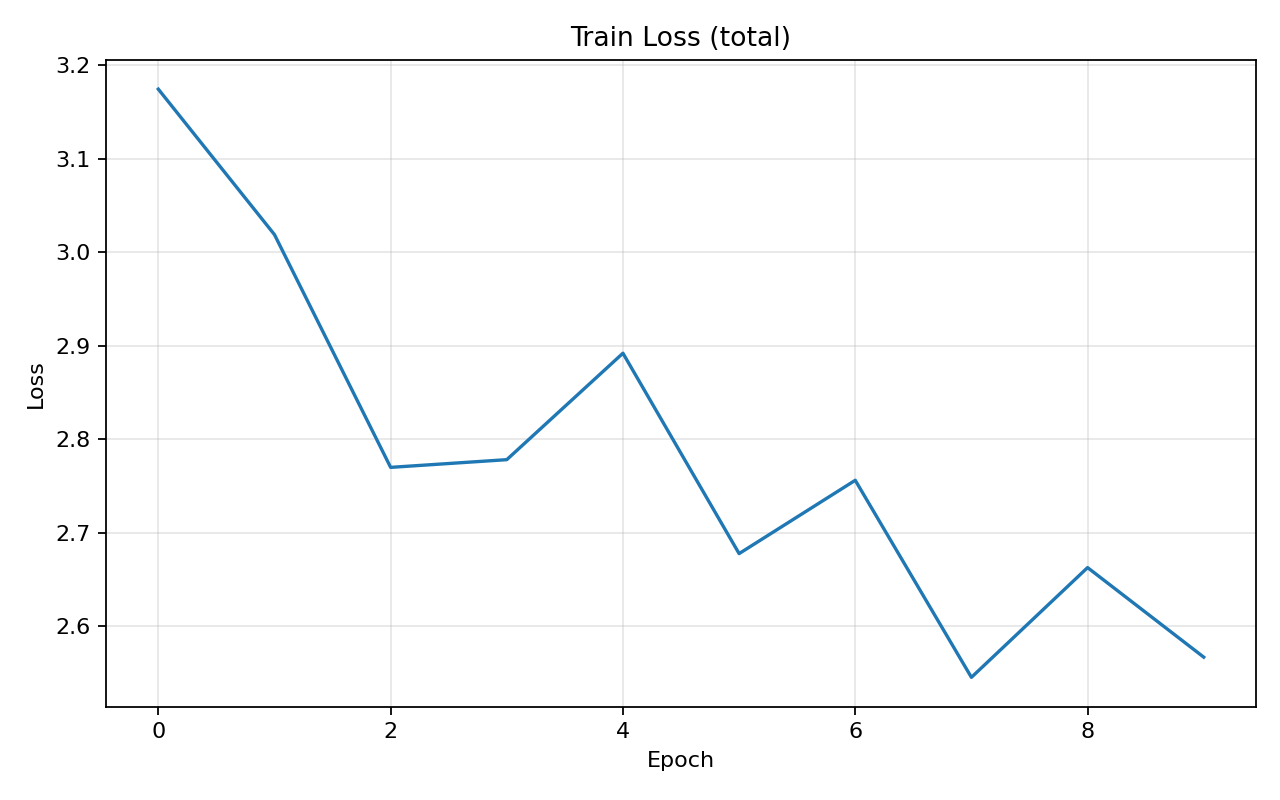
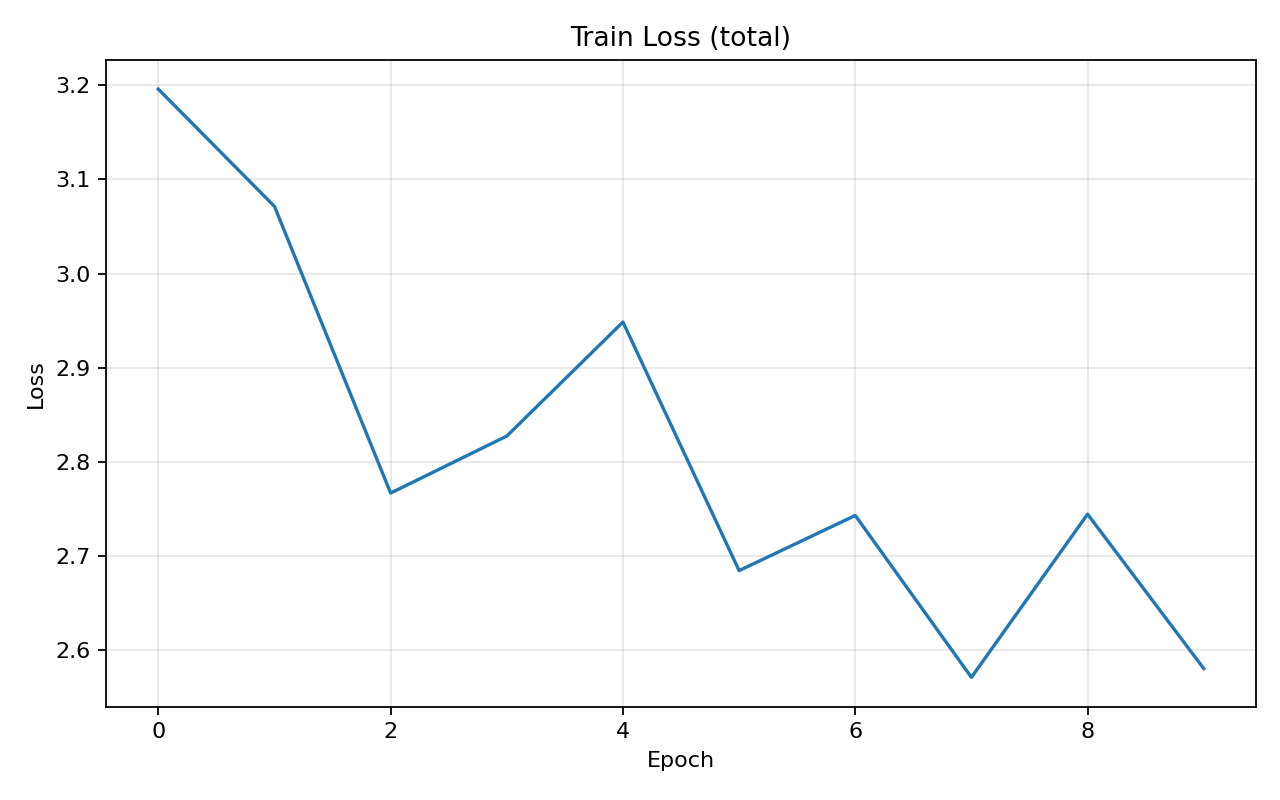
2 attempt

diff --git a/ae_with_fr.py b/ae_with_fr.py
@@ -1,15 +1,14 @@
 #!/usr/bin/env python
 # -*- coding: utf-8 -*-
 
-import os, warnings
+import os
+import warnings
 
 from datasets import HAM10000Dataset, SemiSupervisedDataset
 
 warnings.filterwarnings("ignore")
 
-import numpy as np
 import pandas as pd
-from PIL import Image
 import matplotlib.pyplot as plt
 from fd_functions import *
 
@@ -17,7 +16,7 @@ from fd_functions import *
 import torch
 import torch.nn as nn
 import torch.nn.functional as F
-from torch.utils.data import Dataset, DataLoader, random_split
+from torch.utils.data import DataLoader, random_split
 
 try:
     from lightning import LightningModule, LightningDataModule, Trainer, seed_everything
@@ -39,21 +38,21 @@ DATA_PATH = "F:/datasets/SkinCancer"
 IM_DIR = os.path.join(DATA_PATH, "images")
 CSV_PATH = os.path.join(DATA_PATH, "GroundTruth.csv")
 
-BATCH_SIZE = 256
+BATCH_SIZE = 128
 IMG_SIZE = (96, 96)
 NUM_CLASSES = 2
 NUM_EPOCHS = 10
 LR = 1e-3
-RC_RATE = 0.3              # вага проміжних MSE (out<->dout) усередині reconstruction_loss
 LABELED_FRACTION = 0.05
-MODEL_PATH = "ae_fr_005.pt"
+MODEL_PATH = "fractal_reg_ae_005_fd5.pt"
 
 # Лише одна вага для FD (λ). Реконструкцію не масштабуємо додатково — як у базі.
-LAMBDA_FD = 0.5
+LAMBDA_FD = 2
+RC_RATE = 0.3  # вага проміжних MSE (out<->dout) усередині reconstruction_loss
 
 # нормалізація з базової моделі
 norm_mean = [0.76303685, 0.54564613, 0.570045]
-norm_std  = [0.14092818, 0.15261282, 0.16997021]
+norm_std = [0.14092818, 0.15261282, 0.16997021]
 
 os.makedirs("models", exist_ok=True)
 os.makedirs("plots", exist_ok=True)
@@ -80,6 +79,7 @@ eval_transform = transforms.Compose([
     transforms.ToTensor(),
     transforms.Normalize(norm_mean, norm_std),
 ])
+
 
 # =======================
 # DataModule
@@ -131,8 +131,8 @@ class HAMDataModule(LightningDataModule):
         train_df = pd.concat(samples, axis=0).reset_index(drop=True)
 
         self.train_full = HAM10000Dataset(train_df, transform=train_transform, root=IM_DIR)
-        self.val_set    = HAM10000Dataset(val_df,   transform=eval_transform, root=IM_DIR)
-        self.test_set   = HAM10000Dataset(test_df,  transform=eval_transform, root=IM_DIR)
+        self.val_set = HAM10000Dataset(val_df, transform=eval_transform, root=IM_DIR)
+        self.test_set = HAM10000Dataset(test_df, transform=eval_transform, root=IM_DIR)
 
         n_labeled = int(LABELED_FRACTION * len(self.train_full))
         n_unlabeled = len(self.train_full) - n_labeled
@@ -144,15 +144,16 @@ class HAMDataModule(LightningDataModule):
 
     def train_dataloader(self):
         return DataLoader(self.semi_train, batch_size=self.batch_size, shuffle=True,
-                          pin_memory=True, num_workers=8, persistent_workers=True)
+                          pin_memory=True, num_workers=4, persistent_workers=True)
 
     def val_dataloader(self):
         return DataLoader(self.val_set, batch_size=self.batch_size, shuffle=False,
-                          pin_memory=True, num_workers=8, persistent_workers=True)
+                          pin_memory=True, num_workers=4, persistent_workers=True)
 
     def test_dataloader(self):
         return DataLoader(self.test_set, batch_size=self.batch_size, shuffle=False,
-                          pin_memory=True, num_workers=8, persistent_workers=True)
+                          pin_memory=True, num_workers=4, persistent_workers=True)
+
 
 @torch.no_grad()
 def batch_fd_targets_from_images(x: torch.Tensor) -> torch.Tensor:
@@ -161,9 +162,9 @@ def batch_fd_targets_from_images(x: torch.Tensor) -> torch.Tensor:
     Очікує x нормалізований як у train (mean/std). Повертає FD на тому ж пристрої.
     """
     device = x.device
-    mean = torch.tensor(norm_mean, device=device).view(1,3,1,1)
-    std  = torch.tensor(norm_std,  device=device).view(1,3,1,1)
-    x01 = (x*std + mean).clamp(0,1)
+    mean = torch.tensor(norm_mean, device=device).view(1, 3, 1, 1)
+    std = torch.tensor(norm_std, device=device).view(1, 3, 1, 1)
+    x01 = (x * std + mean).clamp(0, 1)
 
     fds = []
     for b in range(x01.size(0)):
@@ -173,12 +174,12 @@ def batch_fd_targets_from_images(x: torch.Tensor) -> torch.Tensor:
         else:
             # резервний спрощений підрахунок (на випадок, якщо модуль відсутній)
             # бінаризація за середнім і box-counting через max-pool
-            g = 0.2989*img[0] + 0.5870*img[1] + 0.1140*img[2]
+            g = 0.2989 * img[0] + 0.5870 * img[1] + 0.1140 * img[2]
             thr = g.mean().item()
             binimg = (g > thr).float().unsqueeze(0).unsqueeze(0)  # (1,1,H,W)
             H, W = g.shape
-            max_pow = int(np.floor(np.log2(min(H,W))))
-            sizes = [2**k for k in range(1, max_pow+1)]
+            max_pow = int(np.floor(np.log2(min(H, W))))
+            sizes = [2 ** k for k in range(1, max_pow + 1)]
             if len(sizes) < 2:
                 fd = 2.0
             else:
@@ -188,13 +189,14 @@ def batch_fd_targets_from_images(x: torch.Tensor) -> torch.Tensor:
                     N = (pooled > 0).sum().item() + 1e-6
                     Ns.append(N)
                 logN = np.log(np.array(Ns))
-                logr = np.log(np.array([1.0/s for s in sizes]))
+                logr = np.log(np.array([1.0 / s for s in sizes]))
                 # лінійна регресія
                 A = np.vstack([logr, np.ones_like(logr)]).T
                 slope = np.linalg.lstsq(A, logN, rcond=None)[0][0]
                 fd = float(slope)
         fds.append(fd)
     return torch.tensor(fds, device=device, dtype=torch.float32)
+
 
 class FDRegressor(nn.Module):
     def __init__(self, latent_channels=256, p_drop=0.1):
@@ -210,6 +212,7 @@ class FDRegressor(nn.Module):
 
     def forward(self, latent):  # latent: [B, C, H, W]
         return self.model(latent).squeeze(1)
+
 
 # =======================
 # Model (AE + FD head)
@@ -247,16 +250,22 @@ class AutoencoderNet(nn.Module):
         self.fd_head = FDRegressor(latent_channels=256)
 
     def encode(self, x):
-        h = F.relu(self.bn1(self.conv1(x))); out1 = h.detach()
-        h = F.relu(self.bn2(self.conv2(h))); out2 = h.detach()
-        h = F.relu(self.bn3(self.conv3(h))); out3 = h.detach()
+        h = F.relu(self.bn1(self.conv1(x)));
+        out1 = h.detach()
+        h = F.relu(self.bn2(self.conv2(h)));
+        out2 = h.detach()
+        h = F.relu(self.bn3(self.conv3(h)));
+        out3 = h.detach()
         z = F.relu(self.bn4(self.conv4(h)))
         return z, (out1, out2, out3)
 
     def decode(self, z):
-        u = F.relu(self.bn5(self.deconv4(z))); dout3 = u
-        u = F.relu(self.bn6(self.deconv3(u))); dout2 = u
-        u = F.relu(self.bn7(self.deconv2(u))); dout1 = u
+        u = F.relu(self.bn5(self.deconv4(z)));
+        dout3 = u
+        u = F.relu(self.bn6(self.deconv3(u)));
+        dout2 = u
+        u = F.relu(self.bn7(self.deconv2(u)));
+        dout1 = u
         x_rec = torch.sigmoid(self.bn8(self.deconv1(u)))
         return x_rec, (dout1, dout2, dout3)
 
@@ -266,12 +275,13 @@ class AutoencoderNet(nn.Module):
     def predict_fd_from_latent(self, z):
         return self.fd_head(z)
 
+
 class LitFractalAE(LightningModule):
     def __init__(self, rc_rate=RC_RATE, lr=LR, lambda_fd=LAMBDA_FD):
         super().__init__()
         self.save_hyperparameters()
         self.net = AutoencoderNet(num_classes=NUM_CLASSES)
-        self.ce  = nn.CrossEntropyLoss()
+        self.ce = nn.CrossEntropyLoss()
         self.mse = nn.MSELoss()
 
         self.train_loss_hist, self.val_acc_hist, self.val_loss_hist = [], [], []
@@ -289,8 +299,8 @@ class LitFractalAE(LightningModule):
         return base
 
     def _fd_loss(self, x, z):
-        fd_target = batch_fd_targets_from_images(x)   # (B,)
-        fd_pred   = self.net.predict_fd_from_latent(z)  # (B,)
+        fd_target = batch_fd_targets_from_images(x)  # (B,)
+        fd_pred = self.net.predict_fd_from_latent(z)  # (B,)
         return self.mse(fd_pred, fd_target)
 
     def training_step(self, batch, batch_idx):
@@ -298,50 +308,51 @@ class LitFractalAE(LightningModule):
         # об'єднуємо в один батч для реконструкції та FD (без розділення)
         x_all = torch.cat([x_l, x_u], dim=0)
 
-        z_all, (o1,o2,o3) = self.net.encode(x_all)
-        xrec_all, (d1,d2,d3) = self.net.decode(z_all)
+        z_all, (o1, o2, o3) = self.net.encode(x_all)
+        xrec_all, (d1, d2, d3) = self.net.decode(z_all)
 
-        loss_rec = self.reconstruction_loss(xrec_all, x_all, o1,d1, o2,d2, o3,d3)
-        loss_fd  = self._fd_loss(x_all, z_all)
+        loss_rec = self.reconstruction_loss(xrec_all, x_all, o1, d1, o2, d2, o3, d3)
+        loss_fd = self._fd_loss(x_all, z_all)
 
         # CE тільки по labeled частині
         B_l = x_l.size(0)
         logits_l = self.net.classify_from_latent(z_all[:B_l])
-        loss_ce  = self.ce(logits_l, y_l)
+        loss_ce = self.ce(logits_l, y_l)
 
         loss = loss_ce + loss_rec + self.hparams.lambda_fd * loss_fd
 
-        self.log("train/loss_total", loss,    on_epoch=True, prog_bar=True)
-        self.log("train/ce",         loss_ce, on_epoch=True)
-        self.log("train/rec",        loss_rec,on_epoch=True)
-        self.log("train/fd",         loss_fd, on_epoch=True)
+        self.log("train/loss_total", loss, on_epoch=True, prog_bar=True)
+        self.log("train/ce", loss_ce, on_epoch=True)
+        self.log("train/rec", loss_rec, on_epoch=True)
+        self.log("train/fd", loss_fd, on_epoch=True)
         return loss
 
     def validation_step(self, batch, batch_idx):
         x, y = batch
-        z, (o1,o2,o3) = self.net.encode(x)
-        xrec, (d1,d2,d3) = self.net.decode(z)
+        z, (o1, o2, o3) = self.net.encode(x)
+        xrec, (d1, d2, d3) = self.net.decode(z)
 
-        loss_rec = self.reconstruction_loss(xrec, x, o1,d1, o2,d2, o3,d3)
-        loss_fd  = self._fd_loss(x, z)
-        logits   = self.net.classify_from_latent(z)
-        loss_ce  = self.ce(logits, y)
+        loss_rec = self.reconstruction_loss(xrec, x, o1, d1, o2, d2, o3, d3)
+        loss_fd = self._fd_loss(x, z)
+        logits = self.net.classify_from_latent(z)
+        loss_ce = self.ce(logits, y)
 
         loss = loss_ce + loss_rec + self.hparams.lambda_fd * loss_fd
-        acc  = (logits.argmax(dim=1) == y).float().mean()
 
-        self.log("val/acc",  acc,      on_epoch=True, prog_bar=True)
-        self.log("val/ce",   loss_ce,  on_epoch=True)
-        self.log("val/rec",  loss_rec, on_epoch=True)
-        self.log("val/fd",   loss_fd,  on_epoch=True)
-        self.log("val/loss", loss,     on_epoch=True, prog_bar=True)
+        acc = (logits.argmax(dim=1) == y).float().mean()
+
+        self.log("val/acc", acc, on_epoch=True, prog_bar=True)
+        self.log("val/ce", loss_ce, on_epoch=True)
+        self.log("val/rec", loss_rec, on_epoch=True)
+        self.log("val/fd", loss_fd, on_epoch=True)
+        self.log("val/loss", loss, on_epoch=True, prog_bar=True)
         return {"val_loss": loss.detach(), "val_acc": acc.detach()}
 
     def on_validation_epoch_end(self):
         val_loss = self.trainer.callback_metrics.get("val/loss")
-        val_acc  = self.trainer.callback_metrics.get("val/acc")
+        val_acc = self.trainer.callback_metrics.get("val/acc")
         if val_loss is not None: self.val_loss_hist.append(float(val_loss.cpu()))
-        if val_acc  is not None: self.val_acc_hist.append(float(val_acc.cpu()))
+        if val_acc is not None: self.val_acc_hist.append(float(val_acc.cpu()))
         train_loss = self.trainer.callback_metrics.get("train/loss_total")
         if train_loss is not None: self.train_loss_hist.append(float(train_loss.cpu()))
 
@@ -362,32 +373,39 @@ class LitFractalAE(LightningModule):
     def configure_optimizers(self):
         return torch.optim.Adam(self.parameters(), lr=self.hparams.lr)
 
+
 # =======================
 # Plot helpers
 # =======================
 def plot_and_save(history, title, ylabel, path_png):
-    plt.figure(figsize=(8,5))
+    plt.figure(figsize=(8, 5))
     plt.plot(history)
-    plt.title(title); plt.xlabel("Epoch"); plt.ylabel(ylabel)
+    plt.title(title);
+    plt.xlabel("Epoch");
+    plt.ylabel(ylabel)
     plt.grid(True, alpha=0.3)
-    plt.tight_layout(); plt.savefig(path_png, dpi=160); plt.close()
+    plt.tight_layout();
+    plt.savefig(path_png, dpi=160);
+    plt.close()
+
 
 # =======================
 # Main
 # =======================
 def main():
     dm = HAMDataModule(batch_size=BATCH_SIZE)
-    dm.prepare_data(); dm.setup()
+    dm.prepare_data();
+    dm.setup()
 
     model = LitFractalAE(rc_rate=RC_RATE, lr=LR, lambda_fd=LAMBDA_FD)
 
     ckpt = ModelCheckpoint(
         dirpath="models",
-        filename="ae-fractal-unified-{epoch:02d}-{val_acc:.4f}",
+        filename=MODEL_PATH + "-{epoch:02d}-{val_acc:.4f}",
         monitor="val/acc", mode="max", save_top_k=1
     )
     lrmon = LearningRateMonitor(logging_interval='epoch')
-    logger = CSVLogger("models", name="lightning_logs_fractal_unified")
+    logger = CSVLogger("models", name="lightning_logs_{}".format(MODEL_PATH))
 
     trainer = Trainer(
         max_epochs=NUM_EPOCHS,
@@ -399,21 +417,23 @@ def main():
         deterministic=True,
     )
 
-    print("DATA_PATH:", DATA_PATH); print(os.listdir(DATA_PATH))
+    print("DATA_PATH:", DATA_PATH);
+    print(os.listdir(DATA_PATH))
     trainer.fit(model, dm)
     trainer.test(model, datamodule=dm, ckpt_path=ckpt.best_model_path if ckpt.best_model_path else None)
 
     torch.save(model.state_dict(), os.path.join("models", MODEL_PATH))
 
     plot_and_save(model.train_loss_hist, "Train Loss (total)", "Loss", os.path.join("plots", "fru_train_loss.png"))
-    plot_and_save(model.val_loss_hist,   "Validation Loss",   "Loss", os.path.join("plots", "fru_val_loss.png"))
-    plot_and_save(model.val_acc_hist,    "Validation Acc",    "Accuracy", os.path.join("plots", "fru_val_acc.png"))
+    plot_and_save(model.val_loss_hist, "Validation Loss", "Loss", os.path.join("plots", "fru_val_loss.png"))
+    plot_and_save(model.val_acc_hist, "Validation Acc", "Accuracy", os.path.join("plots", "fru_val_acc.png"))
 
     print("\nSaved:")
     print(" - Best checkpoint:", ckpt.best_model_path if ckpt.best_model_path else "(none)")
     print(" - Latest state_dict: models/{}".format(MODEL_PATH))
     print(" - Plots: plots/fru_train_loss.png, plots/fru_val_loss.png, plots/fru_val_acc.png")
-    print(" - Test report: models/test_report_fractal_unified.txt")
+    print(" - Test report: models/test_report_{}.txt".format(MODEL_PATH))
+
 
 if __name__ == "__main__":
     main()
